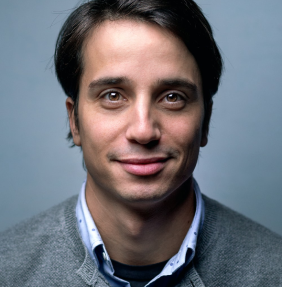
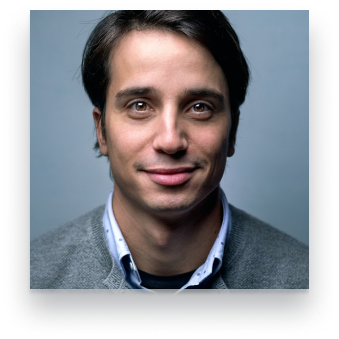
Updated images

diff --git a/index.html b/index.html
@@ -105,7 +105,7 @@
         <div class="products__background" style="background-image: url('images/products_background.png');">
             <div class="products__background-mask">
                 <div class="wrapper clearfix">
-                    <div class="title-wrap">
+                    <div class="title-wrap products__title-wrap">
                         <span class="title-line title-line--white products__title-line"></span>
                         <h2 class="products__main-title h2--white">New Arrivals</h2>
                     </div>
@@ -119,7 +119,7 @@
                                 <div class="products__item products__item--large">
                                     <a href="javascript:;" class="products__img-link">
                                         <div class="products__img-wrap products__img-wrap--large">
-                                            <div class="products__background-img products__background-img--large"
+                                            <div class="products__background-img products__background-img--large js-watch1"
                                                 style="background-image: url('images/products_img1.png');"></div>
                                             <div class="products__price products__price--large">
                                                 $3.210
@@ -265,8 +265,8 @@
                                     </p>
                                     <span class="testimonials__info">Brooklyn, New York</span>
                                 </div>
-                                <img class="testimonials__profile-pic" src="images/testimonials_profile_pic.png"
-                                    alt="profile_pic_error">
+                                <img class="testimonials__profile-pic js-profile-pic"
+                                    src="images/testimonials_profile_pic.png" alt="profile_pic_error">
                             </div>
                         </div>
                         <div class="swiper-slide">
@@ -282,8 +282,8 @@
                                     </p>
                                     <span class="testimonials__info">Brooklyn, New York</span>
                                 </div>
-                                <img class="testimonials__profile-pic" src="images/testimonials_profile_pic.png"
-                                    alt="profile_pic_error">
+                                <img class="testimonials__profile-pic js-profile-pic"
+                                    src="images/testimonials_profile_pic.png" alt="profile_pic_error">
                             </div>
                         </div>
                         <div class="swiper-slide">
@@ -299,8 +299,8 @@
                                     </p>
                                     <span class="testimonials__info">Brooklyn, New York</span>
                                 </div>
-                                <img class="testimonials__profile-pic" src="images/testimonials_profile_pic.png"
-                                    alt="profile_pic_error">
+                                <img class="testimonials__profile-pic js-profile-pic"
+                                    src="images/testimonials_profile_pic.png" alt="profile_pic_error">
                             </div>
                         </div>
                         <div class="swiper-slide">
@@ -316,8 +316,8 @@
                                     </p>
                                     <span class="testimonials__info">Brooklyn, New York</span>
                                 </div>
-                                <img class="testimonials__profile-pic" src="images/testimonials_profile_pic.png"
-                                    alt="profile_pic_error">
+                                <img class="testimonials__profile-pic js-profile-pic"
+                                    src="images/testimonials_profile_pic.png" alt="profile_pic_error">
                             </div>
                         </div>
                     </div>

diff --git a/src/scss/components/_testimonials.scss b/src/scss/components/_testimonials.scss
@@ -55,18 +55,20 @@
     }
 
     @include breakpoint(phone) {
-        padding-top: 29px;
+        padding-top: 180px;
     }
 }
 
 .testimonilas__content-wrap {
-    padding: 0px 204px 158px;
+    padding: 0px 490px 212px 204px;
     display: flex;
     flex-wrap: wrap;
     justify-content: space-between;
     text-align: right;
+    position: relative;
 
-    @include breakpoint (1209px) {
+    @include breakpoint (tablet) {
+        padding: 240px 205px 140px 205px;
         flex-wrap: wrap-reverse;
         justify-content: space-around;
         text-align: center;
@@ -74,6 +76,7 @@
 
     @include breakpoint(phone) {
         padding: 0;
+        justify-content: space-around;
     }
 }
 
@@ -88,18 +91,27 @@
     left: 0;
     padding-top: 18px;
 
+    @include breakpoint(tablet) {
+        padding-top: 38px;
+    }
+
     @include breakpoint(phone) {
         font-size: 100px;
-        line-height: 60px;
+        line-height: 360px;
     }
 }
 
 .testimonials__text {
     padding: 16px 0 48px 0;
 
+    @include breakpoint(tablet) {
+        padding: 33px 0 48px 0;
+    }
+
     @include breakpoint(phone) {
-        padding-bottom: 126px;
+        padding-bottom: 125px;
         padding-top: 16px;
+        text-align: center;
     }
 }
 
@@ -121,12 +133,14 @@
         background-color: $bunker;
     }
 
-    @include breakpoint(1209px) {
+    @include breakpoint(tablet) {
         right: 50%;
         transform: translateX(50%);
     }
 
     @include breakpoint(phone) {
+        right: 50%;
+        transform: translateX(50%);
         bottom: 90px;
 
         &::after {
@@ -145,14 +159,24 @@
 }
 
 .testimonials__profile-pic {
-    display: inline-block;
-    width: 279px;
-    height: 279px;
     filter: drop-shadow(0px 20px 30px $bunker-medium-light);
+    transform: translateY(-11px);
+    position: absolute;
+    top: 0px;
+    right: 175px;
+
+    @include breakpoint(tablet) {
+        top: 24%;
+        left: 50%;
+        transform: translate(-50%, -50%);
+    }
 
     @include breakpoint(phone) {
-        width: 150px;
-        height: 150px;
+        width: 210px;
+        height: 210px;
+        transform: translateX(-50%);
+        top: -10px;
+        left: 50%;
     }
 }
 

diff --git a/src/js/main.js b/src/js/main.js
@@ -91,6 +91,7 @@ function addGradient(url) {
     $(window).on('resize load', function () {
         if ($(window).width() <= 1024) {
             $gradient.css('background', `linear-gradient(193.35deg, rgba(0, 3, 8, 0) 3.18%, rgba(0, 3, 8, 1) 56.87%), ${url}`);
+            $gradient.css('background-repeat', 'no-repeat');
         } else {
             $gradient.css('background', url)
         }
@@ -120,15 +121,24 @@ function centerTable() {
 function changePicturesForPhone() {
     var $logo = $('.js-header-img');
     var $blueWatch = $('.js-phone-img');
+    var $greenWatch = $('.js-img2');
+    var $productsWatch1 = $('.js-watch1');
+    var $testProfilePic = $('.js-profile-pic')
 
     $(window).on('resize load', function () {
         if ($(window).width() <= 767) {
             $logo.attr('src', 'images/phone/logo_phone.png');
             $blueWatch.attr('src', 'images/phone/blue-watch_phone.png');
+            $greenWatch.attr('src', 'images/phone/green-watch_phone.png');
+            $productsWatch1.attr('style', 'background-image: url(\'images/phone/products_watch1.png\')');
+            $testProfilePic.attr('src', 'images/phone/testimonials_profile-pic_phone.png');
         }
         else {
             $logo.attr('src', 'images/big-ben-logo.png');
             $blueWatch.attr('src', 'images/informations_img1.png');
+            $greenWatch.attr('src', 'images/informations_img2.png');
+            $productsWatch1.attr('style', 'background-image: url(\'images/products_img1.png\')');
+            $testProfilePic.attr('src', 'images/testimonials_profile_pic.png');
         }
     });
 }

diff --git a/src/scss/layout/_footer.scss b/src/scss/layout/_footer.scss
@@ -7,7 +7,7 @@
 .footer__info {
     display: block;
     margin: 0 auto;
-    padding-top: 24px;
+    padding-top: 25px;
 
     @include breakpoint(phone) {
         padding-top: 0;
@@ -19,7 +19,7 @@
     width: 130px;
     height: 130px;
     margin: 0 auto;
-    padding-top: 9px;
+    padding-top: 8px;
 
     @include breakpoint(phone) {
         padding-top: 0;
@@ -156,12 +156,13 @@
         margin-bottom: 20px;
         padding-left: 17px;
         padding-top: 5px;
+        filter: drop-shadow(0px 4px 4px $shadow) drop-shadow(0px 4px 4px $shadow);
     }
 }
 
 .input--long {
-    width: 35.17%;
-    margin-right: 2.33%;
+    width: 36.17%;
+    margin-right: 15px;
 
     @include breakpoint(phone) {
         width: 100%;

diff --git a/src/scss/components/_products.scss b/src/scss/components/_products.scss
@@ -8,7 +8,7 @@
 
 .products__background-mask {
     background-color: $bunker-dark;
-    padding-top: 99px;
+    padding-top: 102px;
     position: relative;
 
     @include breakpoint(phone) {
@@ -102,7 +102,7 @@
     flex-wrap: wrap;
     flex-direction: row;
     justify-content: space-between;
-    padding-bottom: 90px;
+    padding-bottom: 89px;
 
     @include breakpoint(1209px) {
         justify-content: space-around;
@@ -247,5 +247,13 @@
 
     @include breakpoint(phone) {
         transform: translateY(-10px);
+    }
+}
+
+.products__title-wrap {
+    margin-left: -121px;
+
+    @include breakpoint(1209px) {
+        margin: 0;
     }
 }

diff --git a/src/scss/components/_banner.scss b/src/scss/components/_banner.scss
@@ -81,10 +81,10 @@
     width: 1041px;
 
     @include breakpoint(phone) {
-        top: -236px;
-        right: -440px;
+        top: -244px;
+        right: -439px;
         height: 200%;
         overflow: hidden;
-        scale: 0.5;
+        scale: 0.48;
     }
 }

diff --git a/src/scss/config/_typography.scss b/src/scss/config/_typography.scss
@@ -32,7 +32,7 @@ h2 {
     height: 0;
     border: 1px solid $bunker;
     display: inline-block;
-    transform: translateY(-16px);
+    transform: translateY(-18px);
     margin-right: 16px;
 
     @include breakpoint(phone) {

diff --git a/src/scss/components/_informations.scss b/src/scss/components/_informations.scss
@@ -7,8 +7,8 @@
 
 .info__background {
     @extend %bg-img;
-    padding-top: 111px;
-    padding-bottom: 116px;
+    padding-top: 112px;
+    padding-bottom: 114px;
     overflow: hidden;
 
     @include breakpoint(phone) {

diff --git a/src/scss/config/_variables.scss b/src/scss/config/_variables.scss
@@ -18,6 +18,7 @@ $cape-cod: #404345;
 $shark: #1d2025;
 $mine-shaft: #333;
 $silver: #c4c4c4;
+$shadow: rgba(0, 0, 0, 0.25);
 
 $font-primary: 'Joane', serif;
 $font-secondary: 'Geomanist';

diff --git a/src/scss/components/_buttons.scss b/src/scss/components/_buttons.scss
@@ -139,7 +139,7 @@
     font-size: 16px;
     line-height: 26px;
     color: $bunker;
-    padding-bottom: 28px;
+    margin-bottom: 28px;
     display: block;
 
     &:hover {

diff --git a/src/scss/layout/_navigation.scss b/src/scss/layout/_navigation.scss
@@ -1,5 +1,5 @@
 .nav {
-    transform: translate(-1px, -26px);
+    transform: translateY(-27px);
 
     @include breakpoint(phone) {
         position: absolute;
